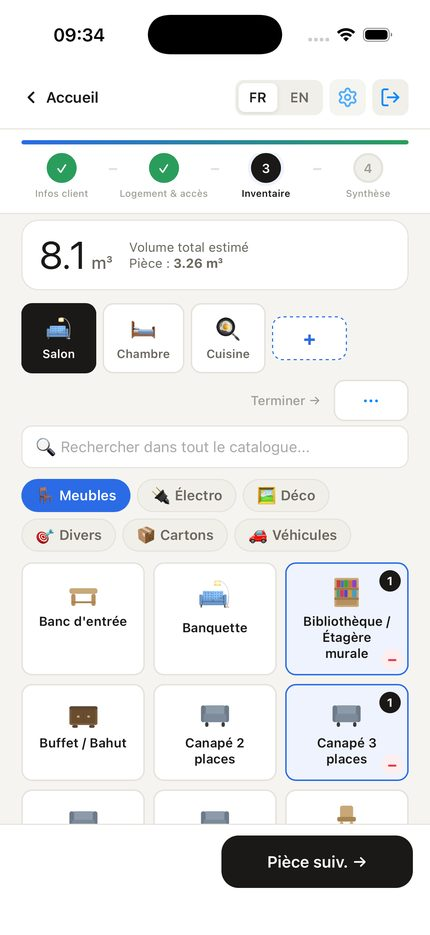
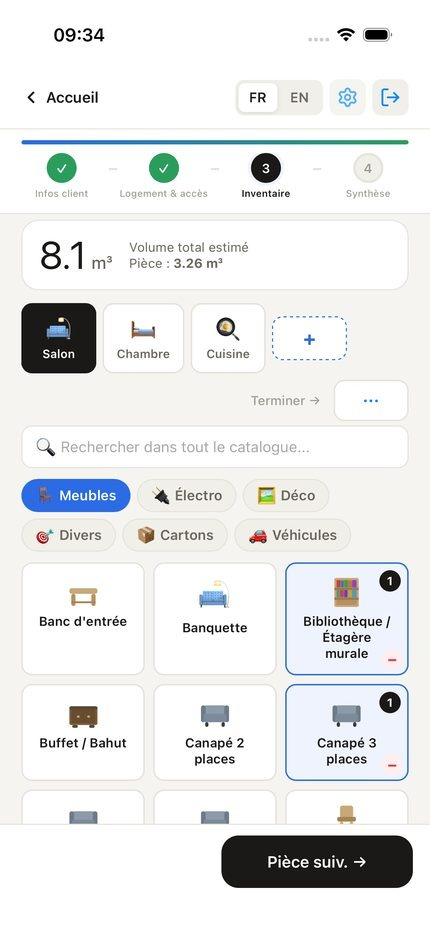
feat: essai gratuit plafonné à 3 visites/30j + hero landing en vraies captures
- hasFullAccess() coupe l'accès dès que trial_ends_at est dépassé OU que
  3 visites ont été créées (le premier des deux), au lieu d'un essai
  illimité pendant 30 jours — pour limiter les abus. Compteur visitCount
  suivi dans AppContext, incrémenté à chaque création de visite
  (wizard + NewVisitModal), consommé par DashboardPage (CTA, badge X/3,
  boutons "Créer une visite" auparavant sans garde-fou).
- Textes "illimité" mis à jour côté app (PricingPage) et site (LandingPage)
  pour refléter la vraie limite (3 visites gratuites pendant 30 jours).
- Nettoyage de la barre noire de censure operateur visible sur les 3
  captures téléphone du hero.
- Remplacement du mockup "Au bureau" codé en dur par une vraie capture
  de la page Devis (données de démo réalistes), pour matcher le niveau
  de détail des 2 autres captures du hero.

Changed region(s): [[0.3326, 0.0, 0.6651, 0.062]]

diff --git a/src/context/AppContext.jsx b/src/context/AppContext.jsx
@@ -14,12 +14,13 @@ const AppContext = createContext();
 // touche à aucune logique de l'app authentifiée — ligne purement additive.
 export { AppContext };
 
-const FREE_VISIT_LIMIT = 3;
+export const FREE_VISIT_LIMIT = 3;
 const PHOTO_SIGNED_URL_TTL = 86400; // 24h — bucket 'visit-photos' privé
 
-// reason: 'trial_expired' (essai de 30 jours écoulé) ou 'visit_limit'
-// (ancien plan gratuit permanent, plafonné à FREE_VISIT_LIMIT visites —
-// ne concerne que les comptes créés avant la mise en place de l'essai).
+// reason: 'trial_expired' (essai de 30 jours écoulé, avant d'avoir atteint
+// FREE_VISIT_LIMIT visites) ou 'visit_limit' (FREE_VISIT_LIMIT visites
+// atteintes, avec ou sans essai en cours — le compte gratuit legacy sans
+// trial_ends_at tombe systématiquement dans ce second cas).
 export function UpgradePlanModal({ lang, onClose, onUpgrade, reason = 'visit_limit' }) {
   const isFr = lang === 'fr';
   const isTrialReason = reason === 'trial_expired';
@@ -179,6 +180,22 @@ export function AppProvider({ children }) {
       .then(({ data }) => { if (data) setProfile(data); });
   }, [user]);
 
+  // Nombre de visites déjà créées par ce compte (RLS: auth.uid() = user_id,
+  // donc ce COUNT ne porte que sur les visites de l'utilisateur courant).
+  // Sert de base à hasFullAccess() : le plafond FREE_VISIT_LIMIT s'applique
+  // quel que soit l'état de l'essai (voir hasFullAccess ci-dessous).
+  const [visitCount, setVisitCount] = useState(0);
+  useEffect(() => {
+    if (!user) { setVisitCount(0); return; }
+    supabase.from('visits').select('*', { count: 'exact', head: true })
+      .then(({ count }) => setVisitCount(count || 0));
+  }, [user]);
+  // Incrément optimiste à chaque création de visite (saveVisit, NewVisitModal),
+  // pour que le plafond soit respecté immédiatement sans attendre un
+  // rechargement complet — y compris pour une visite créée hors-ligne, pas
+  // encore présente en base au moment du COUNT ci-dessus.
+  const incrementVisitCount = () => setVisitCount(c => c + 1);
+
   useEffect(() => {
     const handleOnline = async () => {
       resyncOnReconnectRef.current?.();
@@ -300,16 +317,22 @@ export function AppProvider({ children }) {
     setViewMode('wizard');
   };
 
-  // ── Accès / essai gratuit de 30 jours ──────────────────────────
-  // `trial_ends_at` est posé en base à la création du profil (colonne avec
-  // valeur par défaut now() + 30 jours). Les comptes créés avant la mise en
-  // place de l'essai n'ont pas cette colonne renseignée : ils restent sur
-  // l'ancien modèle "gratuit permanent plafonné à FREE_VISIT_LIMIT visites",
-  // pour ne pas couper l'accès à des utilisateurs existants sans prévenir.
+  // ── Accès / essai gratuit ───────────────────────────────────────
+  // Essai limité à FREE_VISIT_LIMIT visites OU 30 jours (trial_ends_at),
+  // ce qui arrive en premier. `trial_ends_at` est posé en base à la
+  // création du profil (colonne avec valeur par défaut now() + 30 jours) ;
+  // les comptes créés avant la mise en place de l'essai n'ont pas cette
+  // colonne renseignée (isOnTrial() = false, isTrialExpired() toujours
+  // false) et restent simplement plafonnés à FREE_VISIT_LIMIT visites,
+  // sans limite de temps — ancien modèle "gratuit permanent".
   const isProUser = () => (profile?.plan || 'free') === 'pro';
   const isOnTrial = () => !!profile?.trial_ends_at;
   const isTrialExpired = () => isOnTrial() && new Date(profile.trial_ends_at) < new Date();
-  const hasFullAccess = () => isProUser() || (isOnTrial() && !isTrialExpired());
+  const hasFullAccess = () => {
+    if (isProUser()) return true;
+    if (isTrialExpired()) return false;
+    return visitCount < FREE_VISIT_LIMIT;
+  };
   const getTrialDaysLeft = () => {
     if (!isOnTrial()) return null;
     const ms = new Date(profile.trial_ends_at) - new Date();
@@ -317,34 +340,17 @@ export function AppProvider({ children }) {
   };
 
   const [planVisitSignal, setPlanVisitSignal] = useState(0);
-  const openPlanVisit = async () => {
+  const openPlanVisit = () => {
     if (!hasFullAccess()) {
-      if (isTrialExpired()) {
-        openModal(
-          <UpgradePlanModal
-            lang={lang}
-            reason="trial_expired"
-            onClose={closeModal}
-            onUpgrade={() => { closeModal(); openProCheckout(user?.email, user?.id); }}
-          />
-        );
-        return;
-      }
-      // Compte legacy (pas d'essai) : ancien plafond de FREE_VISIT_LIMIT visites
-      const { count } = await supabase
-        .from('visits')
-        .select('*', { count: 'exact', head: true });
-      if ((count || 0) >= FREE_VISIT_LIMIT) {
-        openModal(
-          <UpgradePlanModal
-            lang={lang}
-            reason="visit_limit"
-            onClose={closeModal}
-            onUpgrade={() => { closeModal(); openProCheckout(user?.email, user?.id); }}
-          />
-        );
-        return;
-      }
+      openModal(
+        <UpgradePlanModal
+          lang={lang}
+          reason={isTrialExpired() ? 'trial_expired' : 'visit_limit'}
+          onClose={closeModal}
+          onUpgrade={() => { closeModal(); openProCheckout(user?.email, user?.id); }}
+        />
+      );
+      return;
     }
     setViewMode('agenda');
     setPlanVisitSignal(n => n + 1);
@@ -1015,6 +1021,9 @@ export function AppProvider({ children }) {
         all[key] = { userId: user.id, payload: offlinePayload, editingVisitId: state.editingVisitId };
         localStorage.setItem('moveup_pending_saves', JSON.stringify(all));
       } catch (e) { console.error('LocalStorage save error:', e); }
+      // Nouvelle visite (pas de editingVisitId) : compte immédiatement dans
+      // le quota, même pas encore synchronisée en base.
+      if (!state.editingVisitId) incrementVisitCount();
       return { data: { id: state.editingVisitId }, error: null, _pending: true };
     }
     const vol = getTotalVolume();
@@ -1075,6 +1084,7 @@ export function AppProvider({ children }) {
       lastSavedVisitIdRef.current = data.id;
       setState(s => ({ ...s, editingVisitId: data.id, shareToken: data.share_token }));
       uploadPhotos(data.id, state.rooms);
+      incrementVisitCount();
     }
     return { data, error };
   };
@@ -1381,6 +1391,7 @@ export function AppProvider({ children }) {
       state,
       t, tCat,
       isProUser, isOnTrial, isTrialExpired, hasFullAccess, getTrialDaysLeft,
+      visitCount, incrementVisitCount,
       updateClient, updateOrigin, updateDestination,
       setHousingType, setHousingTypeOrigin, setHousingTypeDestination,
       setMoveType, setHouseholdPersons, setTransportOverride,

diff --git a/src/pages/DashboardPage.jsx b/src/pages/DashboardPage.jsx
@@ -1,6 +1,6 @@
 import { useState, useEffect } from 'react';
 import { supabase } from '../lib/supabase';
-import { useApp, UpgradePlanModal } from '../context/AppContext';
+import { useApp, UpgradePlanModal, FREE_VISIT_LIMIT } from '../context/AppContext';
 import { openProCheckout } from '../lib/stripe';
 import BoxMascot from '../components/BoxMascot';
 import { FileText, Calendar, Clock, MapPin, BarChart3, Pencil, CalendarClock } from 'lucide-react';
@@ -204,12 +204,11 @@ const PLAN_BADGE = {
   free: { label: 'Gratuit',    bg: '#F0EFE9', color: '#6B6860' },
   pro:  { label: 'Pro ✨',     bg: '#EEF3FD', color: '#2B6BE6' },
 };
-const FREE_VISIT_LIMIT = 3;
 
 export default function DashboardPage() {
   const {
     t, lang, user, profile, loadVisit, goToStep, setViewMode, openNewQuote,
-    hasFullAccess, isTrialExpired, isOnTrial, getTrialDaysLeft,
+    hasFullAccess, isTrialExpired, getTrialDaysLeft, visitCount,
   } = useApp();
   const isFr = lang === 'fr';
 
@@ -366,7 +365,7 @@ export default function DashboardPage() {
           const b = PLAN_BADGE[plan] || PLAN_BADGE.free;
           const trialDays = getTrialDaysLeft();
           return (
-            <div style={{ display: 'flex', alignItems: 'center', gap: 8, marginBottom: 12 }}>
+            <div style={{ display: 'flex', alignItems: 'center', gap: 8, marginBottom: 12, flexWrap: 'wrap' }}>
               <span
                 style={{ background: b.bg, color: b.color, padding: '3px 10px', borderRadius: 20, fontSize: 12, fontWeight: 700, cursor: 'pointer' }}
                 onClick={() => setViewMode('pricing')}
@@ -380,9 +379,9 @@ export default function DashboardPage() {
                     : (isFr ? `Essai : ${trialDays} j restants` : `Trial: ${trialDays} d left`)}
                 </span>
               )}
-              {plan === 'free' && trialDays === null && (
-                <span style={{ fontSize: 11, color: 'var(--text3)' }}>
-                  {allVisits.length}/{FREE_VISIT_LIMIT} {isFr ? 'visites' : 'visits'}
+              {plan !== 'pro' && (
+                <span style={{ fontSize: 11, color: visitCount >= FREE_VISIT_LIMIT ? 'var(--danger)' : 'var(--text3)', fontWeight: visitCount >= FREE_VISIT_LIMIT ? 700 : 400 }}>
+                  {visitCount}/{FREE_VISIT_LIMIT} {isFr ? 'visites' : 'visits'}
                 </span>
               )}
             </div>
@@ -391,7 +390,7 @@ export default function DashboardPage() {
 
         {/* CTA Nouvelle visite */}
         <button className="dashboard-cta" onClick={() => {
-          if (hasFullAccess() || (isOnTrial() === false && allVisits.length < FREE_VISIT_LIMIT)) {
+          if (hasFullAccess()) {
             setShowNewVisit(true);
           } else {
             setShowUpgradeModal(true);
@@ -421,7 +420,7 @@ export default function DashboardPage() {
                       border: 'none', background: 'var(--accent)', color: 'white',
                       fontWeight: '700', fontSize: '14px', cursor: 'pointer',
                     }}
-                    onClick={() => setShowNewVisit(true)}
+                    onClick={() => hasFullAccess() ? setShowNewVisit(true) : setShowUpgradeModal(true)}
                   >
                     <Pencil size={15} strokeWidth={2.5} style={{verticalAlign:'-2px', marginRight:6, display:'inline'}} />{isFr ? 'Créer une visite' : 'Create a visit'}
                   </button>
@@ -515,7 +514,7 @@ export default function DashboardPage() {
                     border: 'none', background: 'var(--accent)', color: 'white',
                     fontWeight: '700', fontSize: '14px', cursor: 'pointer',
                   }}
-                  onClick={() => setShowNewVisit(true)}
+                  onClick={() => hasFullAccess() ? setShowNewVisit(true) : setShowUpgradeModal(true)}
                 >
                   <Pencil size={15} strokeWidth={2.5} style={{verticalAlign:'-2px', marginRight:6, display:'inline'}} />{isFr ? 'Créer une visite' : 'Create a visit'}
                 </button>

diff --git a/src/pages/LandingPage.jsx b/src/pages/LandingPage.jsx
@@ -3,10 +3,11 @@ import {
   Package, SlidersHorizontal, Tag, MapPin, LayoutGrid,
   FileText, Camera, MessageCircle, Receipt, Palette, Link2, Route,
 } from 'lucide-react';
-import { useApp } from '../context/AppContext';
+import { useApp, FREE_VISIT_LIMIT } from '../context/AppContext';
 import { CATALOG, FREQUENT_ITEM_IDS } from '../data/catalog';
 import { openProCheckout, isNativeApp } from '../lib/stripe';
 import appIcon from '../assets/landing/app-icon.png';
+import shotBureau from '../assets/landing/screenshot-devis-bureau.jpg';
 import shotLogement from '../assets/landing/screenshot-logement-acces.jpg';
 import shotInventaire from '../assets/landing/screenshot-inventaire.jpg';
 import shotSynthese from '../assets/landing/screenshot-synthese-devis.jpg';
@@ -327,25 +328,7 @@ export default function LandingPage({ onSignIn, onSignUp }) {
         <div className="landing-hero-scenarios">
           <div className="landing-scenario-card">
             <div className="landing-scenario-shot">
-              <div className="landing-mockup-desktop">
-                <div className="landing-mockup-bar">
-                  <span className="dot" /><span className="dot" /><span className="dot" />
-                  <span className="landing-mockup-bar-title">Move Up App</span>
-                </div>
-                <div className="landing-mockup-body">
-                  <div className="landing-mockup-block">
-                    <div className="landing-mockup-block-label">DEVIS EN COURS</div>
-                    <div className="landing-mockup-row"><span>Famille Martin</span><strong>1 240 €</strong></div>
-                    <div className="landing-mockup-row"><span>SCI Bréhat</span><strong>3 680 €</strong></div>
-                  </div>
-                  <div className="landing-mockup-block">
-                    <div className="landing-mockup-block-label">AGENDA — AUJOURD'HUI</div>
-                    <div className="landing-mockup-row"><span className="landing-mockup-time">10h00</span><span>Dupont — Lyon</span></div>
-                    <div className="landing-mockup-row"><span className="landing-mockup-time">14h30</span><span>Martin — Villeurbanne</span></div>
-                    <div className="landing-mockup-row"><span className="landing-mockup-time">17h00</span><span>SCI Bréhat — Bron</span></div>
-                  </div>
-                </div>
-              </div>
+              <img src={shotBureau} alt="Liste des devis de l'app Move Up sur ordinateur" />
             </div>
             <div className="landing-scenario-label">AU BUREAU</div>
             <h3 className="landing-scenario-title">Devis &amp; agenda, sur ordinateur</h3>
@@ -522,11 +505,11 @@ export default function LandingPage({ onSignIn, onSignUp }) {
               <div className="landing-plan-price"><strong>0 €</strong><span>/ 30 jours</span></div>
               <p className="landing-plan-desc">Pour découvrir l'outil, sans carte bancaire</p>
               <ul className="landing-plan-list">
-                <li>Visites illimitées pendant 30 jours</li>
-                <li>Photos illimitées pendant 30 jours</li>
+                <li>{FREE_VISIT_LIMIT} visites gratuites pendant 30 jours</li>
+                <li>Photos illimitées sur ces visites</li>
                 <li>PDF complet avec photos</li>
                 <li>Inventaire complet</li>
-                <li className="off">Création de visites après 30 jours</li>
+                <li className="off">Visites au-delà de {FREE_VISIT_LIMIT} ou après 30 jours</li>
                 <li className="off">Multi-utilisateurs</li>
               </ul>
               <button className="landing-btn landing-btn-outline landing-btn-block" onClick={onSignUp}>Démarrer l'essai gratuit</button>

diff --git a/src/pages/PricingPage.jsx b/src/pages/PricingPage.jsx
@@ -1,4 +1,4 @@
-import { useApp } from '../context/AppContext';
+import { useApp, FREE_VISIT_LIMIT } from '../context/AppContext';
 import { openProCheckout, PRO_PAYMENT_LINK, isNativeApp } from '../lib/stripe';
 
 export default function PricingPage() {
@@ -52,7 +52,7 @@ export default function PricingPage() {
           <div style={{ fontSize: 12, color: 'var(--text3)' }}>
             {trialExpired
               ? (isFr ? 'Vos visites passées restent consultables. Abonnez-vous pour continuer à en créer.' : 'Your past visits stay accessible. Subscribe to keep creating new ones.')
-              : (isFr ? 'Visites et photos illimitées pendant la période d\'essai, sans carte bancaire.' : 'Unlimited visits and photos during the trial, no credit card needed.')}
+              : (isFr ? `${FREE_VISIT_LIMIT} visites gratuites pendant l'essai (30 jours), sans carte bancaire.` : `${FREE_VISIT_LIMIT} free visits during the trial (30 days), no credit card needed.`)}
           </div>
         </div>
       )}
@@ -75,14 +75,14 @@ export default function PricingPage() {
         <ul style={{ listStyle: 'none', fontSize: 13, color: 'var(--text2)', lineHeight: 2 }}>
           {onTrial ? (
             <>
-              <li>✓ {isFr ? 'Visites illimitées pendant 30 jours' : 'Unlimited visits for 30 days'}</li>
-              <li>✓ {isFr ? 'Photos illimitées pendant 30 jours' : 'Unlimited photos for 30 days'}</li>
+              <li>✓ {isFr ? `${FREE_VISIT_LIMIT} visites gratuites pendant 30 jours` : `${FREE_VISIT_LIMIT} free visits for 30 days`}</li>
+              <li>✓ {isFr ? 'Photos illimitées sur ces visites' : 'Unlimited photos on these visits'}</li>
               <li>✓ {isFr ? 'PDF complet avec photos' : 'Full PDF with photos'}</li>
               <li>✓ {isFr ? 'Aucune carte bancaire requise' : 'No credit card required'}</li>
             </>
           ) : (
             <>
-              <li>✓ {isFr ? '3 visites maximum' : '3 visits maximum'}</li>
+              <li>✓ {isFr ? `${FREE_VISIT_LIMIT} visites maximum` : `${FREE_VISIT_LIMIT} visits maximum`}</li>
               <li>✓ {isFr ? 'PDF basique' : 'Basic PDF'}</li>
               <li>✓ {isFr ? '5 photos par visite' : '5 photos per visit'}</li>
               <li>✓ {isFr ? 'Inventaire complet' : 'Full inventory'}</li>

diff --git a/src/index.css b/src/index.css
@@ -940,20 +940,6 @@ textarea { min-height: 80px; resize: vertical; }
 .landing-scenario-title { font-size: 18px; font-weight: 600; letter-spacing: -0.015em; margin-bottom: 8px; }
 .landing-scenario-desc { font-size: 14px; line-height: 1.55; color: var(--landing-text-muted); }
 
-/* Mockup "ordinateur" codé (pas une capture) pour le scénario bureau —
-   même traitement visuel que .landing-report-mockup, en miniature. */
-.landing-mockup-desktop { position: absolute; inset: 0; display: flex; flex-direction: column; background: var(--surface); }
-.landing-mockup-bar { display: flex; align-items: center; gap: 6px; padding: 10px 14px; border-bottom: 1px solid var(--landing-line-soft); flex-shrink: 0; }
-.landing-mockup-bar .dot { width: 6px; height: 6px; border-radius: 50%; background: var(--landing-line-sunken); }
-.landing-mockup-bar-title { margin-left: 8px; font-size: 10px; font-weight: 600; color: var(--landing-text-faint); }
-.landing-mockup-body { flex: 1; display: grid; grid-template-columns: 1fr 1fr; gap: 10px; padding: 12px 14px; min-height: 0; }
-.landing-mockup-block { background: var(--paper); border: 1px solid var(--landing-line-soft); border-radius: 8px; padding: 10px; overflow: hidden; }
-.landing-mockup-block-label { font-size: 8px; font-weight: 700; letter-spacing: 0.1em; color: var(--landing-text-faint); margin-bottom: 8px; }
-.landing-mockup-row { display: flex; align-items: center; justify-content: space-between; gap: 6px; font-size: 10px; color: var(--ink); padding: 5px 0; border-top: 1px solid var(--landing-line-soft); }
-.landing-mockup-row:first-of-type { border-top: none; }
-.landing-mockup-row strong { font-weight: 600; }
-.landing-mockup-time { color: var(--landing-text-faint); flex-shrink: 0; }
-
 /* ── Démo interactive ───────────────────────────────────────── */
 .landing-demo-section { max-width: 1180px; margin: 0 auto; padding: 70px 44px 110px; }
 .landing-demo-card {

diff --git a/src/components/NewVisitModal.jsx b/src/components/NewVisitModal.jsx
@@ -5,7 +5,7 @@ import { useApp } from '../context/AppContext';
 import { addOfflineVisit } from '../lib/offlineQueue';
 
 export default function NewVisitModal({ onClose, onCreated }) {
-  const { user, lang } = useApp();
+  const { user, lang, incrementVisitCount } = useApp();
   const isFr = lang === 'fr';
 
   const [form, setForm] = useState({
@@ -95,6 +95,7 @@ export default function NewVisitModal({ onClose, onCreated }) {
         },
       };
       const offlineVisit = addOfflineVisit(visitData);
+      incrementVisitCount();
       onCreated(offlineVisit);
       return;
     }
@@ -136,6 +137,7 @@ export default function NewVisitModal({ onClose, onCreated }) {
         setSaving(false);
         return;
       }
+      incrementVisitCount();
       onCreated(data);
     } catch (err) {
       console.error('NewVisitModal unexpected error:', err);
